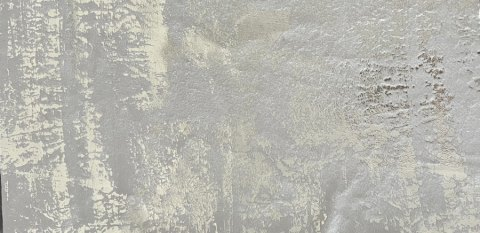
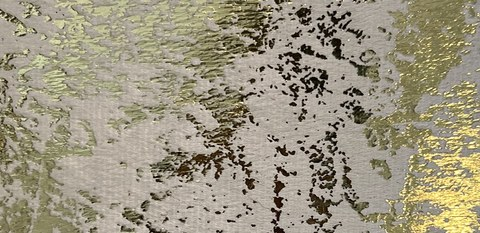
BN05 geri, BN01 yeni doku, RNO-004 dış bant, halka genişliği kendiliğinden büyümez, parçalı çizime yapay zeka rötuşu denemesi
Claude-Session: https://claude.ai/code/session_01QER1FqZCmw8rrYpwEQ2poJ

diff --git a/uretim_takip/uretim/parcali.py b/uretim_takip/uretim/parcali.py
@@ -62,6 +62,7 @@ MALZEMELER = [
     ("bienca_bn02", "Bienca BN02 Bakır eskitme / gri", "#9a8577"),
     ("bienca_bn03", "Bienca BN03 Gümüş & gri eskitme", "#9aa1a3"),
     ("bienca_bn04", "Bienca BN04 Altın & gümüş eskitme", "#c8ab62"),
+    ("bienca_bn05", "Bienca BN05 Gri & siyah-gümüş varak", "#8f8a84"),
     # Rono (üçlü lamine: süet + keçe + Rono) – müşteri kartelası RN01–RN07 (2026-11-05). Anahtarlar eski kayıtlar için aynı.
     ("acik_gri_keten", "Rono RN01 Gri / vizon", "#a09489"),
     ("gri_keten", "Rono RN02 Koyu gri / gümüş", "#676361"),
@@ -88,12 +89,11 @@ MALZEMELER = [
 # Kartelada olmayan eski malzemeler: eski kayıtlar açılınca en yakın Rono rengine çevrilir.
 ESKI_MALZEME = {"bej_keten": "krem_keten", "siyah_keten": "antrasit_keten", "rona_kahve_simli": "kahve_keten",
                 "bienca_krem": "bienca_bn01", "bienca_gri": "bienca_bn03",
-                "siyah_simli": "antrasit_keten", "altin_ayna": "altin",
-                "bienca_bn05": "bienca_bn04"}  # 2026-11-06: Bienca 4 renk, BN05 kalktı  # 2026-11-05: simli ve ayna altın kalktı
+                "siyah_simli": "antrasit_keten", "altin_ayna": "altin"}  # 2026-11-09: BN05 geri geldi (gri & siyah-gümüş, BNA-005)  # 2026-11-05: simli ve ayna altın kalktı
 # Kartelalı seriler: modelin bütün parçaları yalnız kendi kartelasından; ince çizgiler metalik; kenar kartelaya bağlı.
 KARTELA_MALZEMELERI = {
     "RNO": ["acik_gri_keten", "gri_keten", "krem_keten", "antrasit_keten", "vizon_keten", "kahve_keten", "beyaz_keten"],
-    "BNA": ["bienca_bn01", "bienca_bn02", "bienca_bn03", "bienca_bn04"],
+    "BNA": ["bienca_bn01", "bienca_bn02", "bienca_bn03", "bienca_bn04", "bienca_bn05"],
 }
 METALIK = ["altin", "gumus"]
 # Hazır modellerin eski malzemeleri kartelada en yakın karşılığına (katalog fotoğrafına bakarak)
@@ -384,12 +384,12 @@ FOTO_RENK = {
     "RNO-001": _yapi("gri_keten", "gumus", ("duz", 14, "bienca_bn01", ""), ("desenli", 8, "bienca_bn01", "LZ04")),
     "RNO-003": _yapi("acik_gri_keten", "altin", ("duz", 6, "bienca_bn04", ""), ("desenli", 10, "bienca_bn04", "LZ05"),
                      ("duz", 6, "bienca_bn04", "")),
-    "RNO-004": _yapi("beyaz_keten", "altin", ("duz", 4, "beyaz_keten", ""), ("desenli", 9, "beyaz_keten", "LZ04")),
+    "RNO-004": _yapi("beyaz_keten", "altin", ("duz", 4, "bienca_bn01", ""), ("desenli", 9, "beyaz_keten", "LZ04")),
     "RNO-005": _yapi("beyaz_keten", "altin", ("duz", 22, "krem_keten", ""), ("duz", 1.5, "gumus", ""),
                      ("desenli", 9, "beyaz_keten", "LZ01")),
     "BNA-001": _yapi("bienca_bn01", "bienca_bn01", ("desenli", 12, "bienca_bn01", "LZ02")),
     "BNA-003": _yapi("bienca_bn01", "altin", ("desenli", 22, "antrasit_keten", "LZ03"), alt="krem"),
-    "BNA-005": _yapi("bienca_bn03", "gumus", ("desenli", 14, "gumus", "LZ01"), alt="krem"),
+    "BNA-005": _yapi("bienca_bn05", "gumus", ("desenli", 14, "gumus", "LZ01"), alt="krem"),
     "BNA-009": _yapi("bienca_bn04", "altin", ("desenli", 14, "bienca_bn04", "LZ02")),
     "BNA-018": _yapi("bienca_bn01", "gumus", ("desenli", 16, "kahve_keten", "LZ02")),
     "BNA-026": _yapi("bienca_bn01", "altin", ("desenli", 12, "bienca_bn01", "LZ02")),
@@ -489,12 +489,11 @@ def _halkali_temizle(v, g, desen):
         v[on + "malzeme"] = _sec(g(on + "malzeme"), MALZEMELER, "beyaz_keten")
         v[on + "desen"] = desen(on + "desen")
         v[on + "nakis"] = _motif_sec(g(on + "nakis"))
-        alt = halka_en_az(v[on + "tur"], v[on + "nakis"])
         v[on + "gen"] = _sayi(g(on + "gen"), 10, 0, 50)
         if i <= v["halka_sayisi"]:
             v[on + "gen"] = min(v[on + "gen"], round(max(0, kalan), 1))
-            if v[on + "gen"] < min(alt, kalan):
-                v[on + "gen"] = round(max(0, min(alt, kalan)), 1)
+            # genişlik kendiliğinden büyütülmez (2026-11-09, kullanıcı: bayi yalnız deseni / nakışı değiştirince
+            # halka modeldeki gibi kalsın); sığmıyorsa uyarı çıkar (uyarilar: "en az … cm ister")
             kalan -= v[on + "gen"]
     v["orta"] = _sec(g("orta"), ORTA_TURLERI, "duz")
     v["nakis"] = _motif_sec(g("nakis"))

diff --git a/uretim_takip/uretim/ai_deneme.py b/uretim_takip/uretim/ai_deneme.py
@@ -155,3 +155,60 @@ def calistir(klasor, yapay_zeka=True):
     yol = os.path.join(klasor, "karsilastirma.jpg")
     tuval.save(yol, quality=90)
     return yol
+
+
+# ---- 2026-11-09: parçalı çizime yapay zeka son rötuşu (kullanıcı onayı) -------------------------------------------
+# Çizim (renk, desen, ölçü kesin) yapay zekaya düşük güçte verilir: yalnız ışık, malzeme gerçekliği, gölge eklenir.
+ADRES_SD3 = "https://api.stability.ai/v2beta/stable-image/generate/sd3"
+ISTEM_ROTUS = ("professional top-down studio product photograph of a handmade luxury rug made of leather panels, "
+               "laser-cut lattice border, metallic foil print, soft natural light, subtle realistic shadows, "
+               "fine leather grain, photorealistic, sharp focus, same colors, same layout")
+OLUMSUZ_ROTUS = "different pattern, extra objects, text, logo, watermark, blurry, painting, cartoon, color change, distorted"
+
+
+def rotus_yap(resim, guc=0.22, model="sd3.5-large"):
+    anahtar = os.environ.get("STABILITY_API_KEY", "").strip()
+    if not anahtar:
+        raise RuntimeError(".env dosyasında STABILITY_API_KEY yok")
+    veri, tur = _cok_parcali({"prompt": ISTEM_ROTUS, "negative_prompt": OLUMSUZ_ROTUS, "mode": "image-to-image",
+                              "strength": str(guc), "model": model, "output_format": "jpeg"}, resim)
+    istek = urllib.request.Request(ADRES_SD3, data=veri, method="POST", headers={
+        "Authorization": f"Bearer {anahtar}", "Accept": "image/*", "Content-Type": tur})
+    try:
+        with urllib.request.urlopen(istek, timeout=180) as yanit:
+            return Image.open(io.BytesIO(yanit.read())).convert("RGB").resize(resim.size, Image.LANCZOS)
+    except urllib.error.HTTPError as h:
+        raise RuntimeError(f"Stability hata {h.code}: {h.read()[:300].decode('utf-8', 'replace')}")
+    except urllib.error.URLError as h:
+        raise RuntimeError(f"Stability'ye bağlanılamadı: {h.reason}")
+
+
+def parcali_calistir(klasor, kodlar=None, guc=0.22, yapay_zeka=True, yazdir=print):
+    from pathlib import Path
+    from . import parcali, parcali_gorsel
+    os.makedirs(klasor, exist_ok=True)
+    kodlar = kodlar or parcali.SECILI_MODELLER
+    katalog = Path(__file__).resolve().parent / "katalog_tohum" / "model"
+    satirlar = []
+    for i, kod in enumerate(kodlar, 1):
+        yazdir(f"{i}/{len(kodlar)} {kod} …")
+        foto = next(katalog.glob(f"{kod}.*"), None)
+        cizim = parcali_gorsel.ciz(parcali.hazir_degerler(kod), 1024)
+        resimler = [("Katalog", Image.open(foto).convert("RGB") if foto else Image.new("RGB", (10, 10), "white")),
+                    ("Çizim", cizim)]
+        if yapay_zeka:
+            resimler.append(("Yapay zeka rötuşu", rotus_yap(cizim, guc)))
+        for ad, r in resimler[1:]:
+            r.save(os.path.join(klasor, f"{kod}_{'cizim' if ad == 'Çizim' else 'rotus'}.jpg"), quality=92)
+        satirlar.append((kod, resimler))
+    w, h = 330, 430
+    tuval = Image.new("RGB", (3 * w + 20, len(satirlar) * (h + 30) + 10), "white")
+    c = ImageDraw.Draw(tuval)
+    for i, (kod, resimler) in enumerate(satirlar):
+        y = 10 + i * (h + 30)
+        for j, (ad, r) in enumerate(resimler):
+            k = r.copy(); k.thumbnail((w - 10, h - 10))
+            tuval.paste(k, (10 + j * w, y)); c.text((10 + j * w, y + k.height + 3), f"{kod} - {ad}", fill="black")
+    yol = os.path.join(klasor, "parcali_rotus.jpg")
+    tuval.save(yol, quality=88)
+    return yol

diff --git a/uretim_takip/uretim/management/commands/ai_deneme.py b/uretim_takip/uretim/management/commands/ai_deneme.py
@@ -8,12 +8,19 @@ class Command(BaseCommand):
     help = "Yapay zeka rötuşu denemesi (3 model): sonuç medya/ai_deneme/karsilastirma.jpg"
 
     def add_arguments(self, parser):
-        parser.add_argument("--yapay-zekasiz", action="store_true", help="yalnız doku boyaması (API çağrısı yok)")
+        parser.add_argument("--yapay-zekasiz", action="store_true", help="API çağrısı yok (yalnız çizim / boyama)")
+        parser.add_argument("--parcali", action="store_true", help="parçalı çizime son rötuş (seçili 10 model)")
+        parser.add_argument("--guc", type=float, default=0.22, help="yapay zeka gücü (0.15–0.35)")
+        parser.add_argument("--model", nargs="*", help="yalnız bu modeller (örn. RNO-004 BNA-009)")
 
     def handle(self, *args, **o):
         klasor = settings.MEDIA_ROOT / "ai_deneme"
         try:
-            yol = ai_deneme.calistir(str(klasor), yapay_zeka=not o["yapay_zekasiz"])
+            if o["parcali"]:
+                yol = ai_deneme.parcali_calistir(str(klasor), o["model"], o["guc"], not o["yapay_zekasiz"],
+                                                 lambda m: self.stdout.write(m))
+            else:
+                yol = ai_deneme.calistir(str(klasor), yapay_zeka=not o["yapay_zekasiz"])
         except RuntimeError as h:
             self.stderr.write(self.style.ERROR(str(h)))
             return

diff --git a/uretim_takip/uretim/tests.py b/uretim_takip/uretim/tests.py
@@ -2406,7 +2406,7 @@ class IkinciGuncellemeTesti(TasarimStudyosuTesti):
     def test_kartela_ve_rono_adi(self):
         from .models import KatalogSerisi, Renk
         self.assertEqual(Renk.objects.filter(grup="rono").count(), 7)
-        self.assertEqual(Renk.objects.filter(grup="bienca", aktif=True).count(), 4)
+        self.assertEqual(Renk.objects.filter(grup="bienca", aktif=True).count(), 5)
         self.assertEqual(KatalogSerisi.objects.get(ad="Rono").kartela, "rono")
         self.assertTrue(DeriTuru.objects.filter(ad="Rono").exists())
         self.assertFalse(DeriTuru.objects.filter(ad="Rona").exists())
@@ -2687,7 +2687,7 @@ class FotoModelTesti(TasarimStudyosuTesti):
     def test_aile_kurallari_nakisli_bant_ve_yeni_modeller(self):
         from . import foto_model
         from .models import KatalogModeli, Renk
-        self.assertFalse(Renk.objects.filter(kod="BN05", aktif=True).exists())  # Bienca 4 renk
+        self.assertTrue(Renk.objects.filter(kod="BN05", aktif=True).exists())  # Bienca 5 renk (2026-11-09 BN05 geri)
         self.assertTrue(KatalogModeli.objects.filter(kod__in=["BNA-027", "BNA-028", "RNO-013"]).count() == 3)
         # zemin kendi ailesinde: Rono zemine Bienca/metal olmaz, Rono halıdaki banda Bienca olur
         s = foto_model.secim_temizle("RNO-010", {"orta": "BN01", "bant": "BN04", "dis": "RN08"})

diff --git a/uretim_takip/uretim/migrations/0038_bn05_geri.py b/uretim_takip/uretim/migrations/0038_bn05_geri.py
@@ -1,0 +1,16 @@
+"""Bienca BN05 geri gelir (2026-11-09, kullanıcı): gri & siyah-gümüş varak; BN01 dokusu yenilendi (krem & altın)."""
+
+from django.db import migrations
+
+
+def ekle(apps, schema_editor):
+    Renk = apps.get_model("uretim", "Renk")
+    r, _ = Renk.objects.get_or_create(kod="BN05", defaults={"ad": "Gri & siyah-gümüş varak", "grup": "bienca", "sira": 5})
+    r.aktif = True
+    r.ad = r.ad or "Gri & siyah-gümüş varak"
+    r.save()
+
+
+class Migration(migrations.Migration):
+    dependencies = [("uretim", "0037_lazer_dxf_desenleri")]
+    operations = [migrations.RunPython(ekle, migrations.RunPython.noop)]

diff --git a/uretim_takip/uretim/foto_model.py b/uretim_takip/uretim/foto_model.py
@@ -88,7 +88,7 @@ NAKIS_KUTULARI = {"RNO-013": [tuple(round(v * 1.19) for v in k) for k in (
     (523, 735, 690, 895))]}
 NAKIS_BOSLUK = {"RNO-013": (357, 524)}  # motifsiz zemin şeridi (x aralığı): silinen motifin yerine buradan doku
 # fotoğrafta desenli (eskitme/varak) olan bölgeler: başka renge geçince fotoğrafın deseni değil kartelanın dokusu görünür
-DESENLI_ASIL = {"BN01", "BN02", "BN03", "BN04"}
+DESENLI_ASIL = {"BN01", "BN02", "BN03", "BN04", "BN05"}
 
 
 def _kartela():

diff --git a/CLAUDE.md b/CLAUDE.md
@@ -116,6 +116,7 @@ Formlar `forms.py`, ekranlar `templates/uretim/`, menü `../templates/base.html`
 - İş kolu: programı çok müşterili yapmak (firma adı/logo/istasyon/ürün ayardan).
 
 ## Günlük (en yeni üstte, bir satır)
+- 2026-11-09: BN05 geri (migration 0038, kullanıcı: 5 Bienca): `doku/bienca_bn05.jpg` (gri & siyah-gümüş, BNA-005 zemini), BN01 dokusu yenilendi (krem & altın, kullanıcı fotoğrafı, gama 0.62), olcek 45 cm, kartela küçük resimleri; RNO-004 dış 4 cm bant BN01; halka genişliği desen/nakış değişince kendiliğinden büyümez (`_halkali_temizle`, uyarı kalır). Yapay zeka son rötuşu denemesi: `manage.py ai_deneme --parcali [--guc 0.22] [--model …]` → SD3.5 large img2img, `medya/ai_deneme/parcali_rotus.jpg` (katalog | çizim | rötuş). Not: yeni BN01 altınlı olduğu için BNA-018/026/003 zemini artık altınlı görünüyor (katalogda gümüş-beyaz) → kullanıcıya soruldu.
 - 2026-11-09: Parçalı stüdyo: "Bu modelden başla" sonrası bayi bir şey değiştirene kadar katalog fotoğrafı (`fotoKalsin`, yalnız isTrusted olay bırakır); kartelalı modelde zemin kendi kartelası, bant/şerit/madalyon/biye RN + BN + altın/gümüş (JS `kartelaGrup`, `_malzeme_secimi` data-alan, `kartelaya_uydur` biye her kartela); keskin ekranda çizim b=1400, fikir 480; bayi Sipariş ver seçilen model fotoğrafı büyük (`#model-buyuk`). BNA-001 (sıcak bej) ve BNA-005 (koyu) katalog tonu BN01–04 dokularında yok → kullanıcıya soruldu. Kullanıcı: IPS/PCH şimdilik olduğu gibi.
 - 2026-11-09: Seçenek B (yapay zeka denemesi durduruldu, kullanıcı): parçalı çizim düzeltmeleri `parcali_gorsel.ciz`: biye HATASI (dikdörtgende resim kenarına dayanan hat MinFilter ile aşınmıyordu → biye/lanfel hiç çizilmiyordu; `ImageOps.expand` payı), altın biye doygun + çapraz parıltı `_metal_parilti` + iç ışık çizgisi, koyu bantta desen kenarı açık çizgi, Bienca dar bantta 1/3 ölçek aynalı `_bienca_ince`, ışık: radial daha belirgin + sol üst yumuşak ışık.
 - 2026-11-09: 3. deneme: bölge haritası kaba → maske = yapay zekanın değiştirdiği pikseller ∩ genişletilmiş harita (`ai_maskesi`); Bienca/metal yalnız parlaklık ayarı. 2. deneme sonucu: kenarlarda taşma, BN02 bakır griye döndü.
